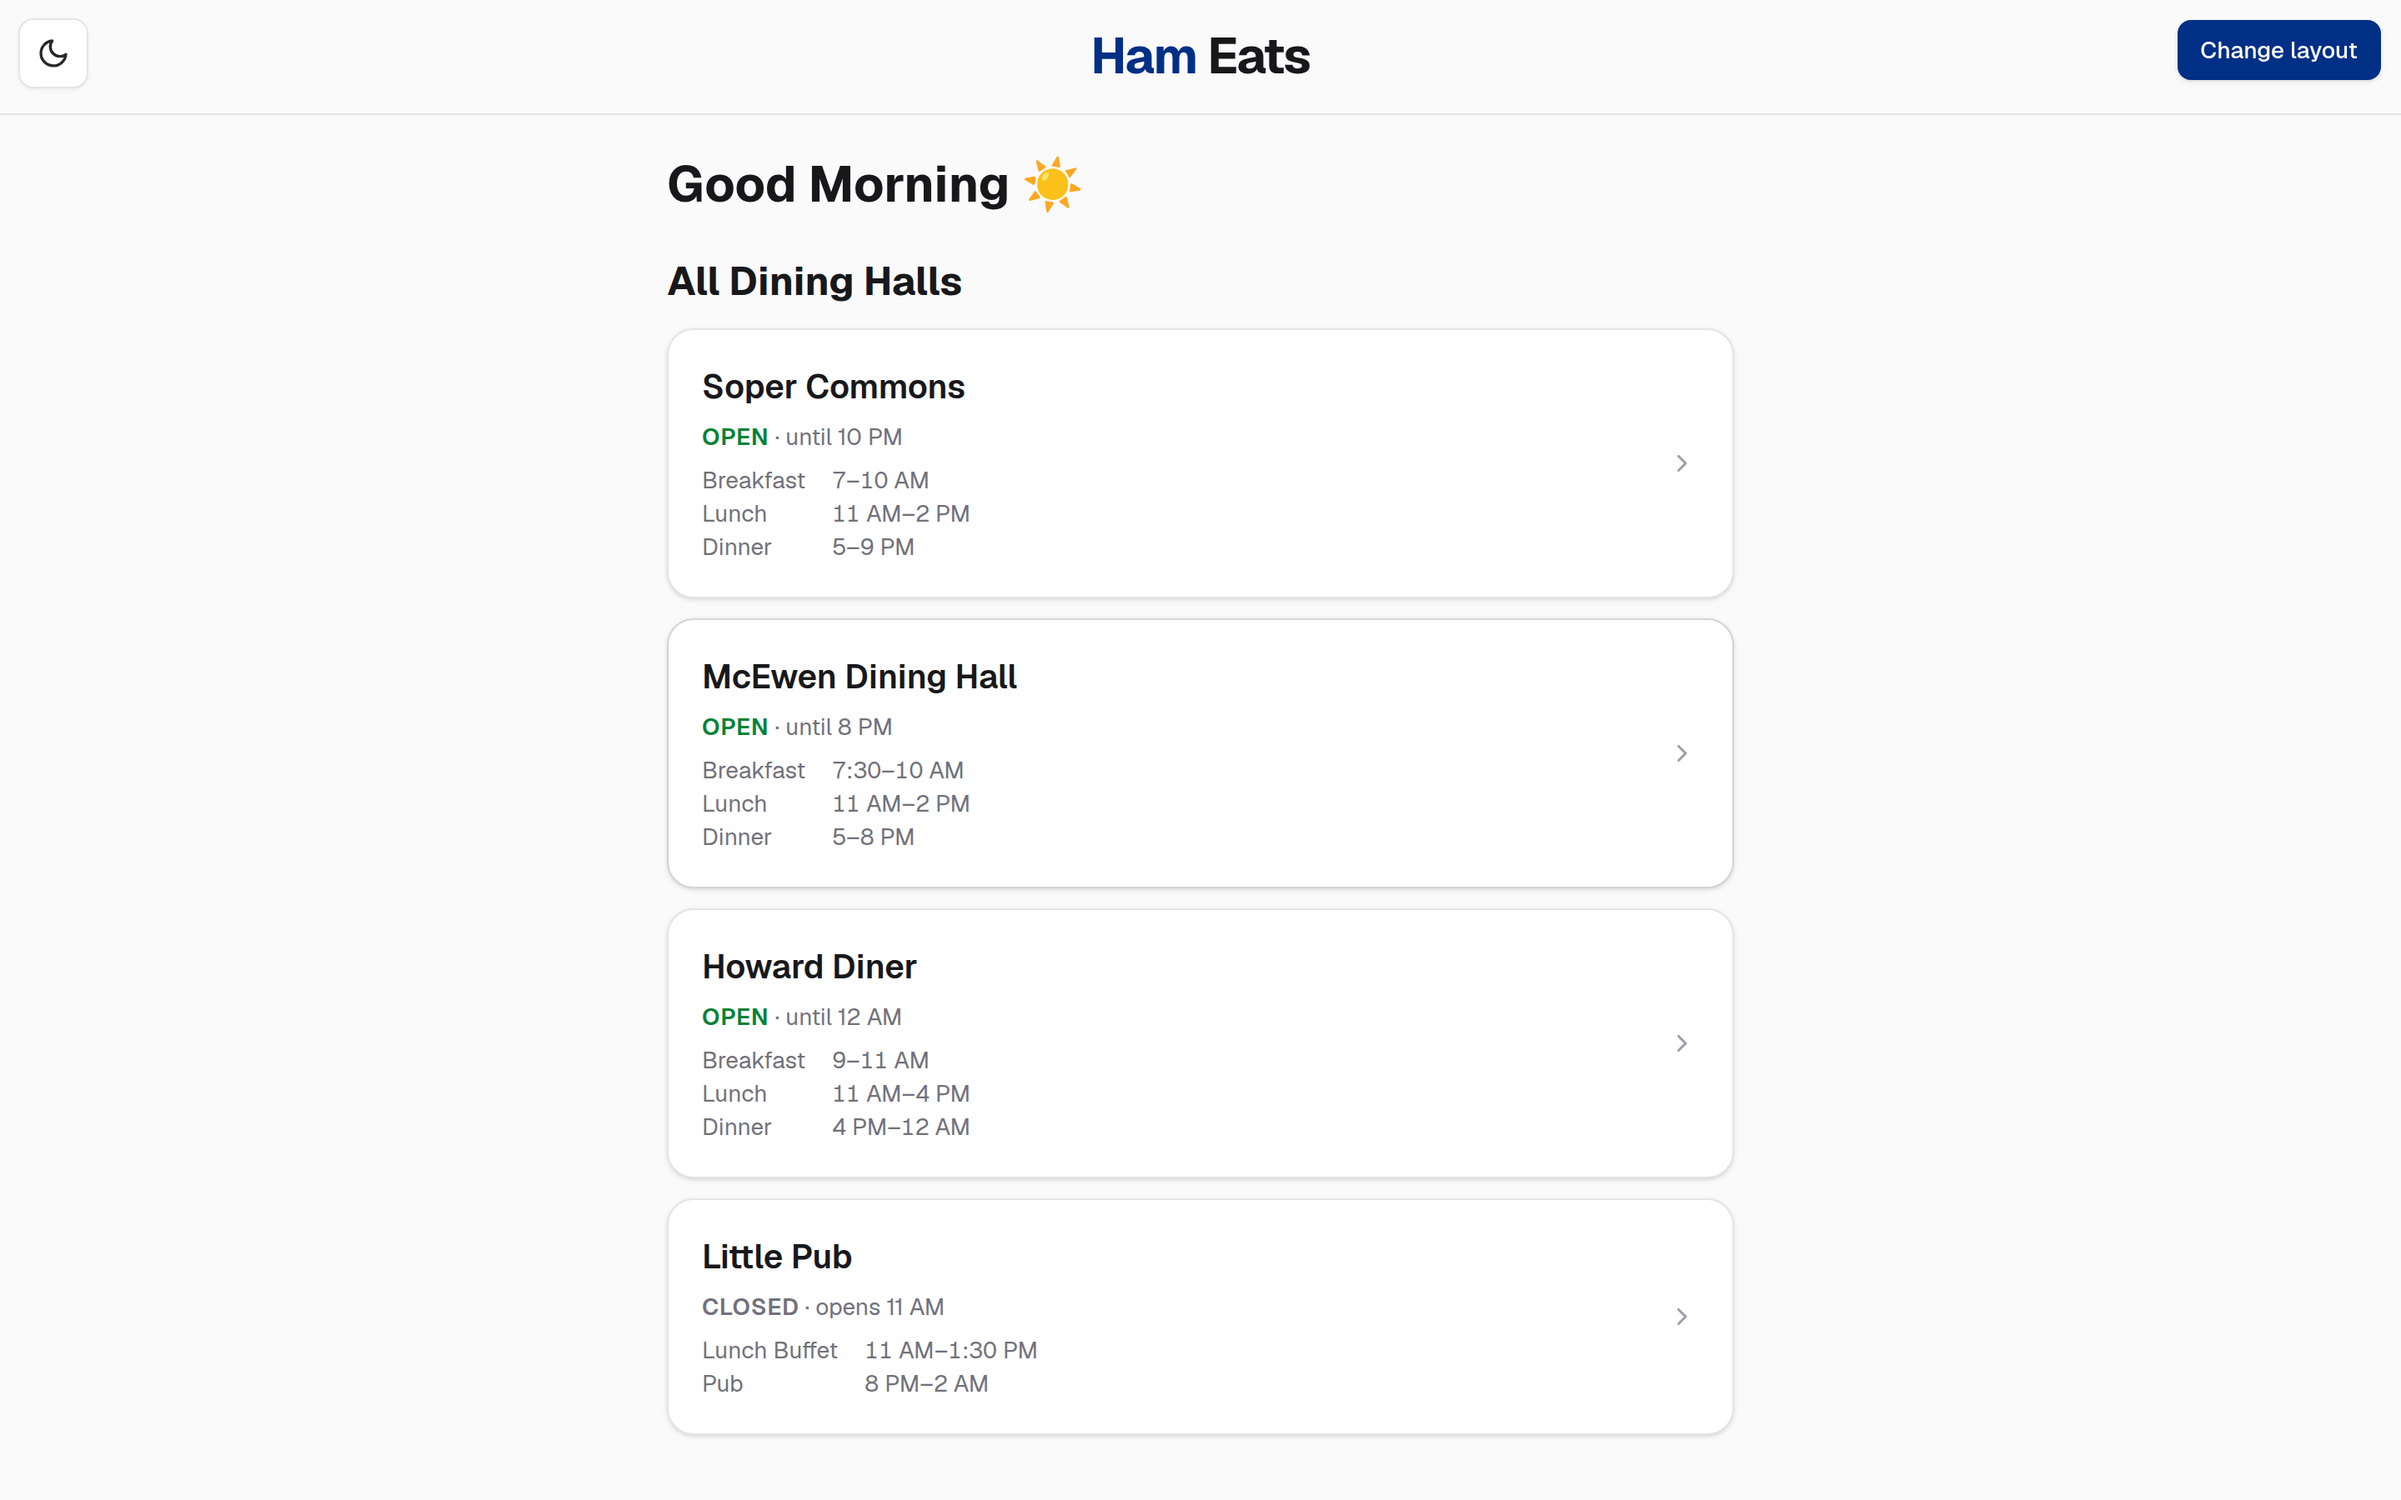
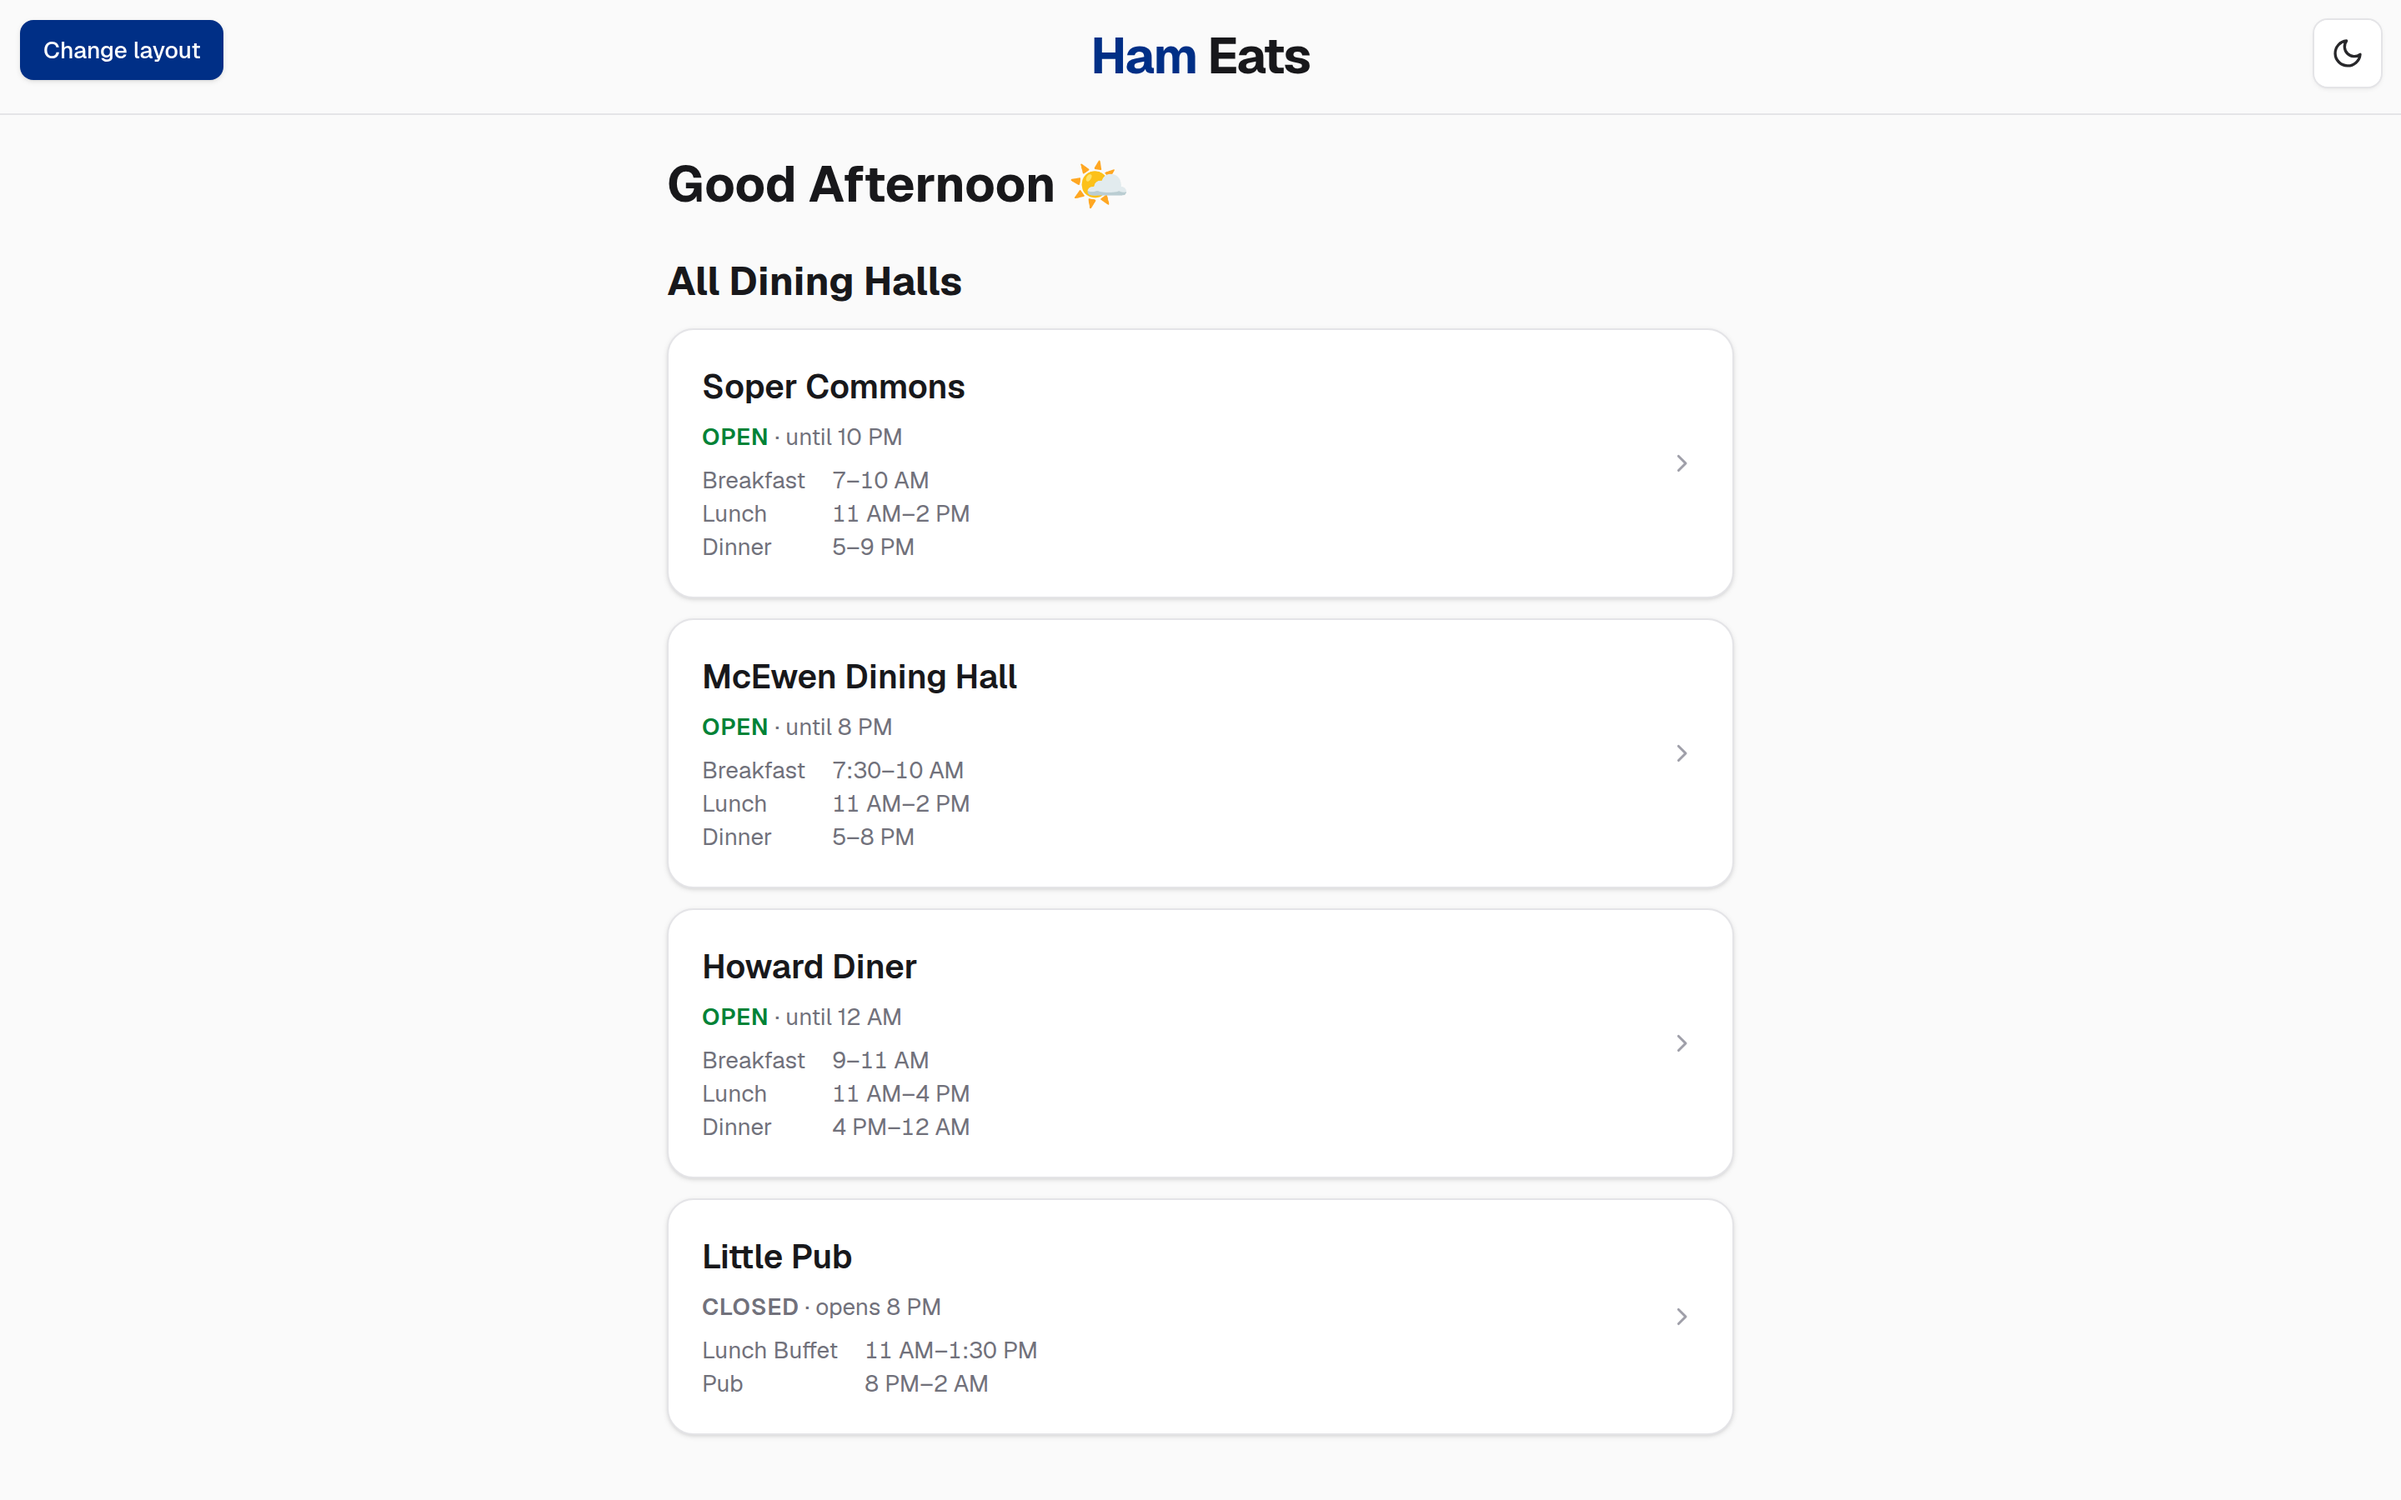
Swap the night-mode and Change layout buttons
Change layout now sits top-left and the theme toggle top-right. On phones
the button reads "Layouts" so it no longer overlaps the centered title.
Retake the Continental and Classic thumbnails to match.

Claude-Session: https://claude.ai/code/session_01F9gdyAACEZYeVoN48Xi1ec

Changed region(s): [[0.3438, 0.0933, 0.4688, 0.1556], [0.9062, 0.0, 1.0, 0.0622], [0.0, 0.0, 0.0938, 0.0622]]

diff --git a/web/app/page.tsx b/web/app/page.tsx
@@ -108,12 +108,15 @@ const isPosted = (day: DayMenu | undefined) =>
 /** Small entry point back to the layout gallery, shown in the corner of the home screen. */
 function ChangeLayoutButton({ onClick }: { onClick: () => void }) {
   return (
-    <div className="fixed right-3 top-3 z-20">
+    <div className="fixed left-3 top-3 z-20">
       <button
         onClick={onClick}
+        aria-label="Change layout"
         className="rounded-lg bg-accent px-3.5 py-2 text-sm font-medium text-white shadow-sm backdrop-blur hover:brightness-110"
       >
-        Change layout
+        {/* Shorter on phones so it clears the centered "Ham Eats" title. */}
+        <span className="sm:hidden">Layouts</span>
+        <span className="hidden sm:inline">Change layout</span>
       </button>
     </div>
   );

diff --git a/web/components/ThemeToggle.tsx b/web/components/ThemeToggle.tsx
@@ -25,7 +25,7 @@ export function ThemeToggle() {
   };
 
   return (
-    <div className="fixed left-3 top-3 z-20">
+    <div className="fixed right-3 top-3 z-20">
       <button
         onClick={toggle}
         aria-label={dark ? "Switch to light mode" : "Switch to dark mode"}
